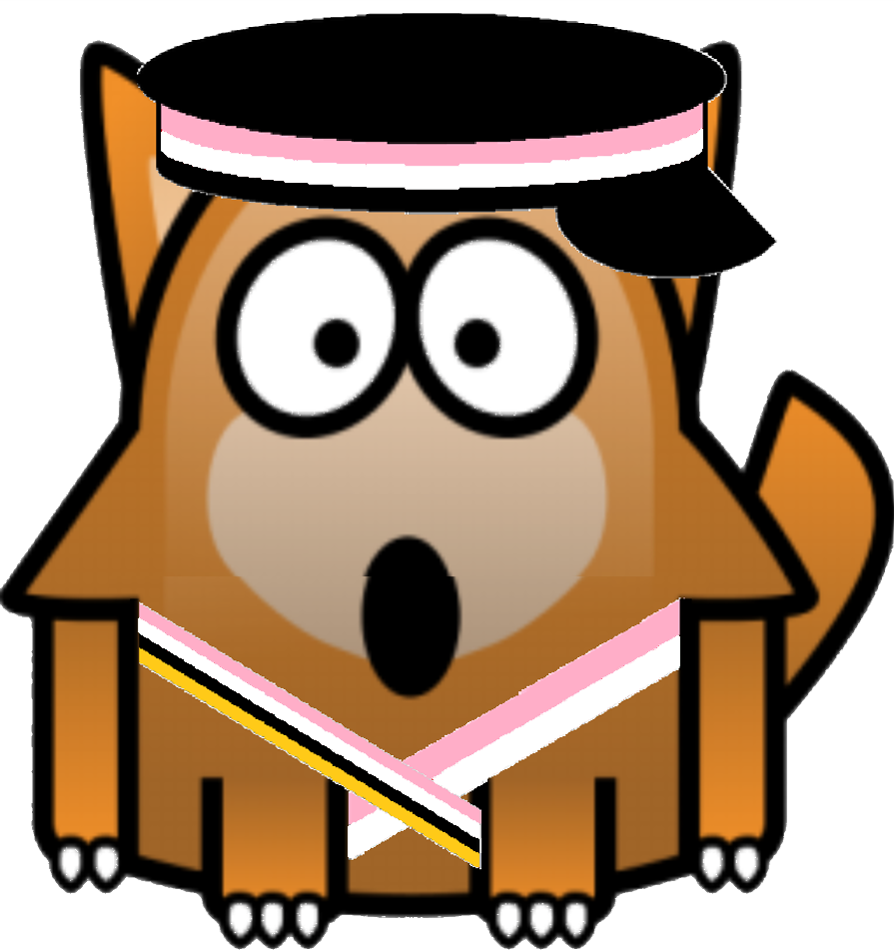
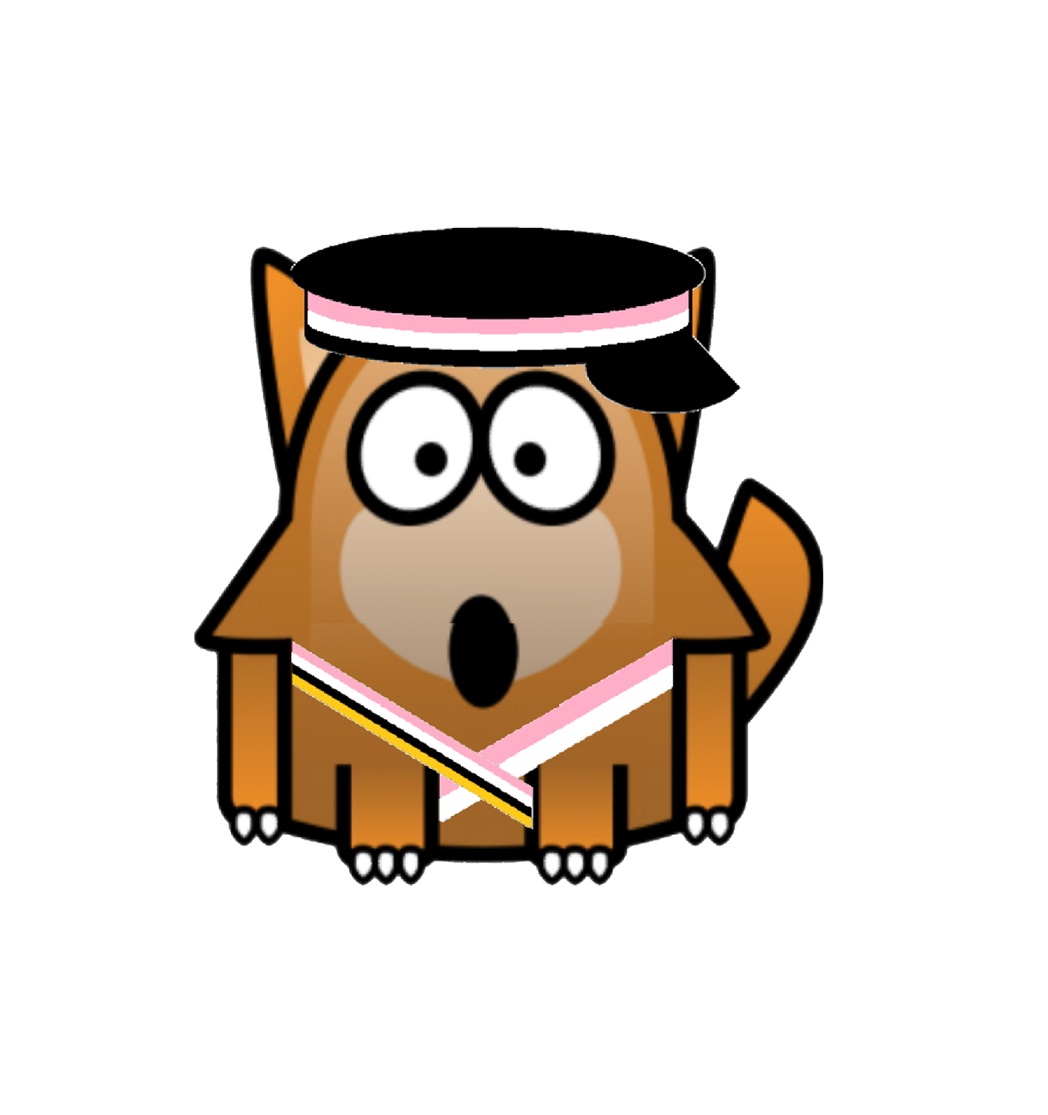
Rotate major

diff --git a/src/snake.py b/src/snake.py
@@ -21,14 +21,15 @@ MAX_QUEUE_LEN = 1000
 TAIL_STEP_DISTANCE = 6
 STEP_SIZE = 5
 
-MAJOR_SIZE = 70
+MAJOR_SIZE = 80
 FOX_SIZE = 40
 BEER_SIZE = 40
 STAR_SIZE = 40
 N_MAX_LOOP = 10000
 MAX_SPEED = 5 / 50
 START_SPEED = 1 / 50
-SPEED_STEPS = 20
+SPEED_STEPS = 10
+ROTATION_SPEED_STEP = 0.1
 
 majorImgPath = files.resource_path('', r'images\major.png')
 foxImgPath = files.resource_path('', r'images\fox.ico')
@@ -55,6 +56,8 @@ class SnakeWindow:
         self._nBeers = 0
         self._speed = START_SPEED
         self._job = None
+        self._rotationSpeed = 0
+        self._currentRotation = 0
         gameStarted = False
         gameStopped = False
 
@@ -187,6 +190,7 @@ class SnakeWindow:
                 self._yPath.appendleft(itemY)
                 keep_in_box('major')
                 move_fox_tail()
+                # catch foxes
                 if check_clipping(itemX, itemY, include='fox'):
                     self._score += self._nBeers
                     self._nFoxes += 1
@@ -197,14 +201,20 @@ class SnakeWindow:
                     for item in reversed(itemRegister):
                         canv.tag_raise(item)
                     _draw_new_fox()
+                # drink beer
                 if check_clipping(itemX, itemY, include='beer'):
                     if self._speed == MAX_SPEED:
-                        self._score += 1
+                        self._rotationSpeed += ROTATION_SPEED_STEP
                     self._nBeers += 1
                     canv.itemconfig('beerText', text=': ' + str(self._nBeers))
                     canv.itemconfig('starText', text=': ' + str(self._score))
                     _draw_new_beer()
                     self._speed = min(self._speed + (MAX_SPEED - START_SPEED) / SPEED_STEPS, MAX_SPEED)
+                # rotate major and its direction
+                self._currentRotation += self._rotationSpeed
+                canv.majorImg = ImageTk.PhotoImage(majorImgObj.rotate(self._currentRotation))
+                canv.itemconfig('major', image=canv.majorImg)
+                # check tail overlap
                 noTailFoxes = [item for item in itemRegister if 'tail' not in item]
                 noTailFoxes.extend(['tail' + str(idx) for idx in range(3)])
                 if check_clipping(itemX, itemY, exclude=noTailFoxes):
